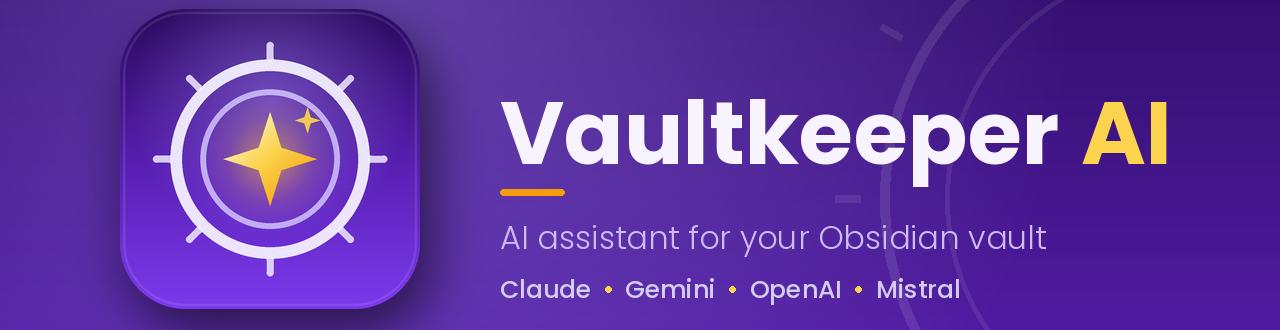
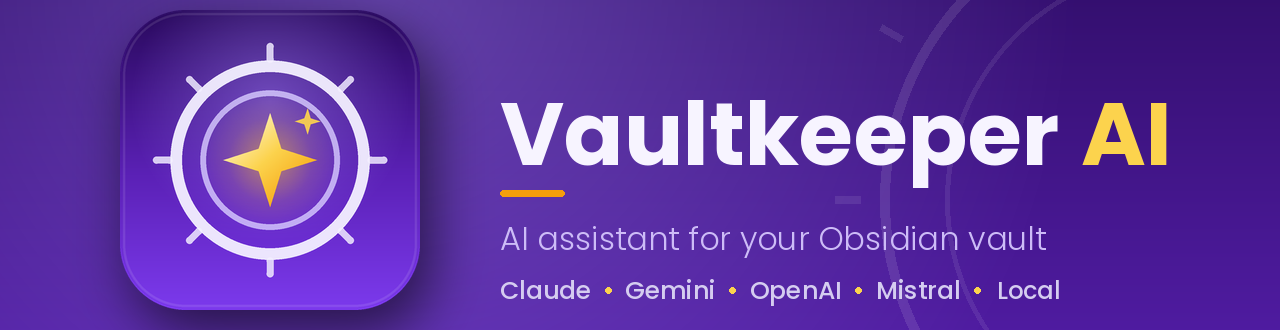
📝 docs(about-modal): rewrite About modal copy for clarity
- Condense and rewrite About modal sections (getting started, chat modes, references, quick actions, uploads, troubleshooting, privacy) for clarity and consistent tone
- Document newer features such as diff review, continuity checks, mobile layouts and memories
- Add Obsidian callout-style tips/notes and expand troubleshooting with Mistral rate limits and local server connection issues
- Adjust banner image margins to sit flush with the modal edge
- Update the social preview banner image

diff --git a/Enums/Copy.ts b/Enums/Copy.ts
@@ -253,239 +253,191 @@ Execution finished
 
     // About Modal Copy
     AboutModalAboutTitle = "About",
-    AboutModalAboutContent = `#### About Vaultkeeper AI
+    AboutModalAboutContent = `Vaultkeeper AI is an assistant that knows your vault. It searches and reads your notes, answers questions about them, and proposes changes that you review before they're applied.
 
-This plugin was originally created for a friend who found it useful, so I have decided to release it to the Obsidian community.
+It began as a plugin built for a friend and is now shared with the wider Obsidian community.
 
-If you find any issues or have a feature request, please feel free to raise them on GitHub:`,
+Found a bug or have an idea? Raise it on GitHub:`,
 
-    AboutModalWhatsNewTitle = "What's New",
-    AboutModalWhatsNewContent = `#### 🚀 What's New
+    AboutModalWhatsNewTitle = "What's new",
+    AboutModalWhatsNewContent = `- **New diff review**: Review every proposed change side by side, then accept it, reject it, or send it back with feedback.
+- **Continuity checks**: Broken links and out-of-date block quotes caused by an edit are flagged in the diff view, and the AI can fix them itself.
+- **Mobile support**: The chat and diff view now have layouts built for phones.
+- **Faster, clearer agent**: The AI can now run several tools at once, and you can follow each step live as it works.
+- **Smarter planning**: Plans are sized to the task, and plan approval happens in one place.
+- **New AI models**: Updated defaults for every provider.
+- **Bug fixes**: Various UI, performance and stability fixes.
 
-- **Paste to attach**: Pasting a large block of text now automatically saves it as a file attachment.
-- **New AI models**: Added the latest releases from Claude, Gemini, and OpenAI.
-- **Better large vault support**: Search, file reads and startup time have been optimised to cope with bigger vaults.
-- **Bug fixes & stability**: Various UI, performance and stability fixes.
+See the [release notes](https://github.com/Andy-Stack/vaultkeeper-ai/releases) for full details.
 
-For further details, see the [release notes](https://github.com/Andy-Stack/vaultkeeper-ai/releases).
-
-Have an issue or a feature request? [Let me know on GitHub](https://github.com/Andy-Stack/vaultkeeper-ai/issues).`,
+Found a bug or have an idea? [Raise it on GitHub](https://github.com/Andy-Stack/vaultkeeper-ai/issues).`,
 
     AboutModalGettingStartedTitle = "Getting started",
-    AboutModalGettingStartedContent = `#### 🏁 Getting started
+    AboutModalGettingStartedContent = `1. **Add a provider**: In the plugin settings, add an API key for Claude, Gemini, OpenAI or Mistral. Or choose **Local** and point it at your own server, with no key needed.
+2. **Choose a model**: Select a model from the dropdown in settings.
+3. **Open the chat**: Click the Vaultkeeper icon in the left sidebar and start asking.
 
-1. **Add an API key**: Go to Settings and add at least one API key (Claude, Gemini, OpenAI, or Mistral) — or select **Local** to connect a self-hosted server instead, no API key required
-2. **Select a model**: Choose your preferred AI model from the dropdown
-3. **Open the chat**: Click the plugin icon in the sidebar to start chatting`,
+> [!tip]
+> The chat starts in **Read-only** mode, so the AI can explore your vault but can't change anything. Switch to **Allow Edits** when you want it to make changes.`,
 
     AboutModalChatModesTitle = "Chat modes",
-    AboutModalChatModesContent = `#### 💬 Chat modes
+    AboutModalChatModesContent = `Switch modes at any time from the input toolbar.
 
-**Read-only (default)** - The AI can safely explore your vault:
-- Search through your notes (including PDFs and Office/ODF documents)
-- Read file contents (including binary files like PDFs, Office documents, and images)
-- List directory structures
-- Cannot modify anything
+##### Read-only (default)
+The AI can explore your vault without changing anything:
+- Search notes, including PDFs and Office/ODF documents
+- Read files, including PDFs, Office documents and images
+- List folders
 
-**Allow Edits** - Switch on when you need the AI to make changes:
+##### Allow Edits
+Everything in Read-only, plus:
 - Create new notes
 - Edit existing content
-- Delete or move files
-- Rename files
+- Move, rename and delete notes and folders
 
-**Planning** - Have the AI plan before acting:
-- A planning agent analyzes your vault and creates a strategy
-- An execution agent carries out the given plan`,
+Each proposed change opens in a side-by-side diff where you can accept it, reject it, or send it back with feedback. To apply changes immediately instead, turn on **Allow changes without asking**.
+
+##### Planning
+For larger, multi-step tasks:
+1. A planning agent explores your vault, asks clarifying questions if needed, and writes a step-by-step plan.
+2. You approve the plan, reject it, or suggest changes.
+3. An execution agent carries out each step.
+4. An orchestration agent checks each result and adjusts the plan if something unexpected comes up.`,
 
     AboutModalReferenceTitle = "Using references",
-    AboutModalReferenceContent = `#### 🔗 Using references
+    AboutModalReferenceContent = `Give the AI context straight away by typing one of these in your message:
 
-Quickly provide context to the AI:
+- \`@filename\`: a specific file
+- \`#tag\`: every note with that tag
+- \`/folder\`: an entire folder
 
-- **@filename** - Reference specific files
-- **&#35;tag** - Reference all notes with a tag
-- **/folder** - Reference entire directories
-
-The autocomplete dropdown supports keyboard navigation.`,
+Autocomplete supports fuzzy search and keyboard navigation.`,
 
     AboutModalCustomInstructionsTitle = "Custom instructions",
-    AboutModalCustomInstructionsContent = `#### 📝 Custom instructions
+    AboutModalCustomInstructionsContent = `Tailor the AI's behaviour to a particular workflow, such as a research assistant or a writing partner:
 
-Customize AI behavior for specific workflows:
+1. Create Markdown files in \`Vaultkeeper AI/User Instructions/\`.
+2. Click the **User Instructions** button in the chat.
+3. Select an instruction set.
+4. The AI follows those instructions in its responses.
 
-1. Create markdown files in **Vaultkeeper AI/User Instructions/**
-2. Click the "User Instructions" button in chat
-3. Select your instruction set
-4. The AI follows these instructions for all interactions
-
-See [[Vaultkeeper AI/User Instructions/EXAMPLE_INSTRUCTIONS|Example Template]] for help getting started.`,
+The folder location can be changed in settings. See [[Vaultkeeper AI/User Instructions/EXAMPLE_INSTRUCTIONS|the example template]] to get started.`,
 
     AboutModalQuickActionsTitle = "Quick actions",
-    AboutModalQuickActionsContent = `#### ⚡ Quick actions
+    AboutModalQuickActionsContent = `Quick actions are one-click AI edits for the note you're working on. Right-click in the editor, or use the editor toolbar button, and pick an action.
 
-Quick actions are one-click AI edits you run on the note you're currently editing. Open the editor menu (right-click, or the command palette) and pick an action. Some actions work on your current selection if you have text selected, otherwise they apply to the whole note.
+**Proofread**, **Beautify** and **Apply links** work on your selection if you have one, otherwise on the whole note. The other actions always use the whole note.
 
 ##### Proofread
-Corrects spelling, grammar, punctuation, and typos without rewriting for style or changing your voice. Works on the selection if you have one, otherwise the whole note.
+Corrects spelling, grammar, punctuation and typos without rewriting for style or changing your voice.
 
 ##### Beautify
-Improves clarity, flow, and readability and adds Markdown formatting (headings, bold, lists, blockquotes) where it helps. Works on the selection if you have one, otherwise the whole note.
+Improves clarity, flow and readability, and adds Markdown formatting (headings, bold, lists, blockquotes) where it helps.
 
 ##### Apply template
-Restructures the note to match a template you choose, fitting your content to the template's headings and structure while preserving the information. If the file you pick doesn't look like a template, no changes are made.
+Restructures the note to match a template you choose, fitting your content to the template's headings while preserving the information. If the file you pick doesn't look like a template, no changes are made.
 
 ##### Apply links
-Scans the note for mentions of pages that already exist in your vault and wraps them in wikilinks. It only links existing pages and never invents new ones. Works on the selection if you have one, otherwise the whole note.
+Wraps mentions of pages that already exist in your vault in wikilinks. It never links to pages that don't exist.
 
 ##### Apply tags
-Chooses tags for the note from the tags that already exist in your vault and merges them into the frontmatter. It won't create new tags — only ones already in use elsewhere.
+Chooses tags for the note from those already used in your vault and merges them into the frontmatter. It never creates new tags.
 
 ##### Suggest tags
-Like Apply tags, but free to suggest new tags as well as reuse existing ones. Suggested tags are merged into the note's frontmatter.
+Like **Apply tags**, but can suggest new tags as well as reuse existing ones.
 
 ##### Generate frontmatter
-Infers YAML frontmatter for the note (aliases, tags, title, summary, created) from its content and merges it into any existing frontmatter.`,
+Infers YAML frontmatter (aliases, tags, title, summary and created date) from the note's content and merges it into any existing frontmatter.`,
 
     AboutModalUploadedFilesTitle = "Uploaded files",
-    AboutModalUploadedFilesContent = `#### 📁 Uploaded files
+    AboutModalUploadedFilesContent = `When you attach files such as PDFs or images to a conversation, they're uploaded to your AI provider. The plugin deletes them automatically when you delete the conversation, but this can occasionally fail because of network issues or rate limits.
 
-When you upload files (PDFs, images) to conversations, they are stored by your AI provider. The plugin automatically attempts to delete these files when you delete conversations, but this may occasionally fail due to network issues or API rate limits.
+> [!tip]
+> Check your provider's dashboard from time to time and remove any files you no longer need. Provider-specific details are in the plugin settings.
 
-**What to do:**
-- Periodically check your provider's dashboard for uploaded files
-- Remove any old files that are no longer needed
-- Provider-specific details can be found in the plugin settings
+##### Provider dashboards
+- **Claude**: [Anthropic Console](https://console.anthropic.com/)
+- **Gemini**: [Google AI Studio](https://aistudio.google.com/)
+- **OpenAI**: [OpenAI Platform](https://platform.openai.com/)
+- **Mistral**: [Mistral Console](https://console.mistral.ai/)
 
-**Provider dashboards:**
-- Claude: [Anthropic Console](https://console.anthropic.com/)
-- Gemini: [Google AI Studio](https://aistudio.google.com/)
-- OpenAI: [OpenAI Platform](https://platform.openai.com/)
-- Mistral: [Mistral Console](https://console.mistral.ai/)
-
-**Local**: Files aren't uploaded anywhere - they're sent inline with your message directly to your local server, so there's nothing to clean up on a dashboard.`,
+> [!note] Local models
+> Files are sent inline with your message directly to your own server, so there's nothing to clean up.`,
 
     AboutModalTroubleshootTitle = "Troubleshooting",
-    AboutModalTroubleshootContent = `#### 🔧 Common issues & solutions
+    AboutModalTroubleshootContent = `##### Invalid API key or authentication errors
+**Fix**:
+- Copy the key again from your provider's console and paste it without extra spaces.
+- Check the key is saved under the correct provider. Keys are provider-specific, so a Claude key only works with Claude models.
 
-##### API key issues
+##### Error 429: Rate limit exceeded
+**Cause**: Too many requests in a short period. This is separate from your token usage or billing limits.
 
-**Problem**: "Invalid API key" or authentication errors
+**Fix**:
+- Wait for the limit to reset (see below).
+- Lower the **Search results limit** and **Snippet size limit** in settings to make each request smaller.
 
-**Solutions**:
-- Verify your API key is correct (copy fresh from provider console)
-- Check you've added the key for the correct provider
-- Ensure no extra spaces when pasting
-- API keys are provider-specific - Claude keys only work with Claude models
+> [!info] Rate limits by provider
+> - **Claude**: Resets within a few hours. Limits rise as your cumulative spend passes each threshold. [Rate limits](https://docs.claude.com/en/api/rate-limits)
+> - **Gemini**: Resets within a few minutes for per-minute limits, or at midnight Pacific Time for daily quotas. Enabling billing moves you to the paid tier, which has much higher limits. [Rate limits](https://ai.google.dev/gemini-api/docs/rate-limits)
+> - **Mistral**: Resets within seconds for per-second limits, within a minute for per-minute token limits, or at the start of the next month for monthly token quotas. The free tier has restrictive limits; upgrading to the Scale plan raises them, and they rise further as your cumulative spend passes each threshold. [Rate limits](https://docs.mistral.ai/deployment/ai-studio/tier)
+> - **OpenAI**: Resets within a few minutes to an hour. Limits rise as you move up usage tiers. [Rate limits](https://platform.openai.com/docs/guides/rate-limits)
 
-##### Error code 429: Rate limit exceeded
+##### Error 503: Service unavailable
+**Cause**: The provider's servers are temporarily overloaded or unavailable. This is outside the plugin's control and is more common with Gemini.
 
-This error means you've made too many API requests in a given time period. This is separate from your token usage limits.
+**Fix**:
+- Wait a few minutes and try again.
+- If it persists, check the provider's status page for ongoing incidents.
 
-**How to resolve:**
-- Wait for your rate limit to reset (see provider-specific details below)
-- Lower the search result and snippet size limits in the plugin settings to reduce request size
-- Understand that rate limits typically increase automatically as you use the API more
+##### Can't connect to a local server
+**Fix**:
+- Make sure your local server (LM Studio, Ollama, vLLM, etc.) is running.
+- Check the **Local URL** in settings, including the port and path (e.g. \`/v1/chat/completions\`).
+- If your server requires authentication, fill in the API key field.
 
-###### Claude
-- **Wait time:** A few hours
-- **Long-term solution:** Rate limits increase significantly after reaching cumulative spending thresholds
-- [Claude Rate Limits Documentation](https://docs.claude.com/en/api/rate-limits)
+##### Local model tool calls fail or loop
+**Cause**: Not every local model handles multi-turn tool calling reliably. This is a model or chat template limitation rather than a plugin bug.
 
-###### OpenAI
-- **Wait time:** A few minutes to an hour
-- **Long-term solution:** Rate limits automatically increase as you progress through usage tiers with higher spending
-- [OpenAI Rate Limits Documentation](https://platform.openai.com/docs/guides/rate-limits)
-
-###### Gemini
-- **Wait time:** A few minutes (per-minute limits) or until midnight Pacific Time (daily quotas)
-- **Long-term solution:** Enable billing to move from free tier to paid tier for significantly higher limits. Paid tier limits increase automatically with cumulative Google Cloud spending
-- [Gemini API Rate Limits Documentation](https://ai.google.dev/gemini-api/docs/rate-limits)
-
-##### Error code 503: Service unavailable
-
-This error indicates a temporary issue with the AI provider's servers.
-
-**What it means:**
-- The provider's service is temporarily unavailable or overloaded
-- This occurs more frequently with Gemini than other providers
-
-**How to resolve:**
-- Wait a few minutes and try again
-- There is no action you can take to prevent this error - it's on the provider's side
-- If the issue persists, check the provider's status page for any ongoing incidents
-
-##### Local model issues
-
-**Problem**: Can't connect to the local server
-
-**Solutions**:
-- Make sure your local server (LM Studio, Ollama, vLLM, etc.) is actually running
-- Double-check the **Local URL** in settings, including the path (e.g. \`/v1/chat/completions\`) and port
-- If your server requires authentication, make sure the API key field is filled in
-
-**Problem**: Tool calls fail, loop, or the AI ignores tool results
-
-**Solutions**:
-- Not all local models support multi-turn tool calling reliably - this is a model/template limitation, not a plugin bug
-- Check your server's chat template settings (e.g. LM Studio's prompt template) and adjust it for tool-calling if needed
-- Try a model known to support tool/function calling well`,
+**Fix**:
+- Adjust your server's chat template for tool calling (e.g. LM Studio's prompt template).
+- Try a model known to support tool/function calling well.`,
 
     AboutModalPrivacyTitle = "Privacy",
-    AboutModalPrivacyContent = `#### 🔒 Privacy & security
+    AboutModalPrivacyContent = `##### Your data, your rules
+**No middleman servers**: With a cloud provider, the content you share goes directly from Obsidian to that provider. Nothing is sent to any other third party, no telemetry is collected, and the full source code is available on GitHub.
 
-##### Data storage
+> [!note] Local models
+> With a local model, nothing leaves your machine.
 
-**Everything stays local** - This plugin does NOT send data to any third-party services except the AI providers you choose. It also doesn't collect any telemetry data and you can review the full source code on GitHub.
+##### Stored in your vault
+- **API keys**: in the plugin settings
+- **Conversation history**: in \`Vaultkeeper AI/Conversations/\`
+- **Custom instructions**: in \`Vaultkeeper AI/User Instructions/\`
+- **Memories**: in \`Vaultkeeper AI/Memories.md\`
+- **Plugin settings**: in \`.obsidian/plugins/vaultkeeper-ai/\`
 
-**What's stored locally**:
-- API keys (stored in your vault's plugin settings)
-- Conversation history (stored in \`Vaultkeeper AI/Conversations/\`)
-- Custom instructions (stored in \`Vaultkeeper AI/User Instructions/\`)
-- Plugin settings (stored in \`.obsidian/plugins/vaultkeeper-ai/\`)
+##### Sent to your provider
+- Your messages and the contents of any files you reference or attach
+- Files the AI reads while working, including PDFs, Office documents and images
+- File and folder names returned by the AI's searches and folder listings
+- Earlier messages in the conversation, for context
+- Your memories, if enabled
 
-##### API communication
-
-**Direct connections only** - The plugin communicates directly with your chosen AI provider:
-
-- **Claude**: Anthropic's API
-- **Gemini**: Google's API
-- **OpenAI**: OpenAI's API
-- **Mistral**: Mistral AI's API
-- **Local**: Your own self-hosted server - no cloud provider is involved at all, so nothing leaves your machine
-
-**What gets sent**:
-- Your messages and referenced file contents (including binary files like PDFs, Office documents, and images)
-- Conversation context (for continuity)
-- File names and directory structures (when AI searches)
-
-**What does NOT get sent**:
-- Files excluded in settings
-- Other plugins' data
-- Your vault structure (unless explicitly requested)
-- API keys to anyone except the respective provider
+Excluded files, other plugins' data and your API keys are never sent, apart from each key going to its own provider.
 
 ##### File exclusions
+Keep sensitive notes private by adding glob patterns in settings. Excluded files are completely invisible to the AI: they won't appear in searches or folder listings and can't be read or modified.
 
-**Protect sensitive information** using glob patterns in settings:
+- \`private/**\`: an entire folder
+- \`journal/personal/**\`: a nested folder
+- \`*.secret.md\`: any file matching a pattern
+- \`.obsidian/workspace.json\`: a single file
 
-**Examples**:
-- \`private/**\` - Exclude entire directories
-- \`*.secret.md\` - Exclude specific file patterns
-- \`journal/personal/**\` - Exclude nested directories
-- \`.obsidian/workspace.json\` - Exclude specific files
-
-**How exclusions work**:
-- Excluded files are completely invisible to the AI
-- The AI cannot read, search, modify, or even list excluded files
-- Exclusions apply to all operations
-
-##### AI provider policies
-
-Each AI provider has their own data policies:
-
+##### Provider privacy policies
 - [Anthropic (Claude)](https://www.anthropic.com/privacy)
 - [Google (Gemini)](https://policies.google.com/privacy)
-- [OpenAI (ChatGPT)](https://openai.com/privacy)
+- [OpenAI](https://openai.com/privacy)
 - [Mistral AI](https://legal.mistral.ai/terms/privacy-policy)`,
 
     // Conversation Modal Copy

diff --git a/Modals/AboutModalSvelte.svelte b/Modals/AboutModalSvelte.svelte
@@ -330,9 +330,9 @@
 	}
 
 	.about-modal-banner {
-		margin-top: var(--size-2-2);
-		margin-left: calc(var(--size-4-2) * -1);
-		border-radius: var(--radius-s);
+		margin-left: calc(var(--size-4-3) * -1);
+		margin-right: calc(var(--size-4-2) * -1);
+		border-top-left-radius: var(--radius-s);
 	}
 
 	.about-modal-version-string {
